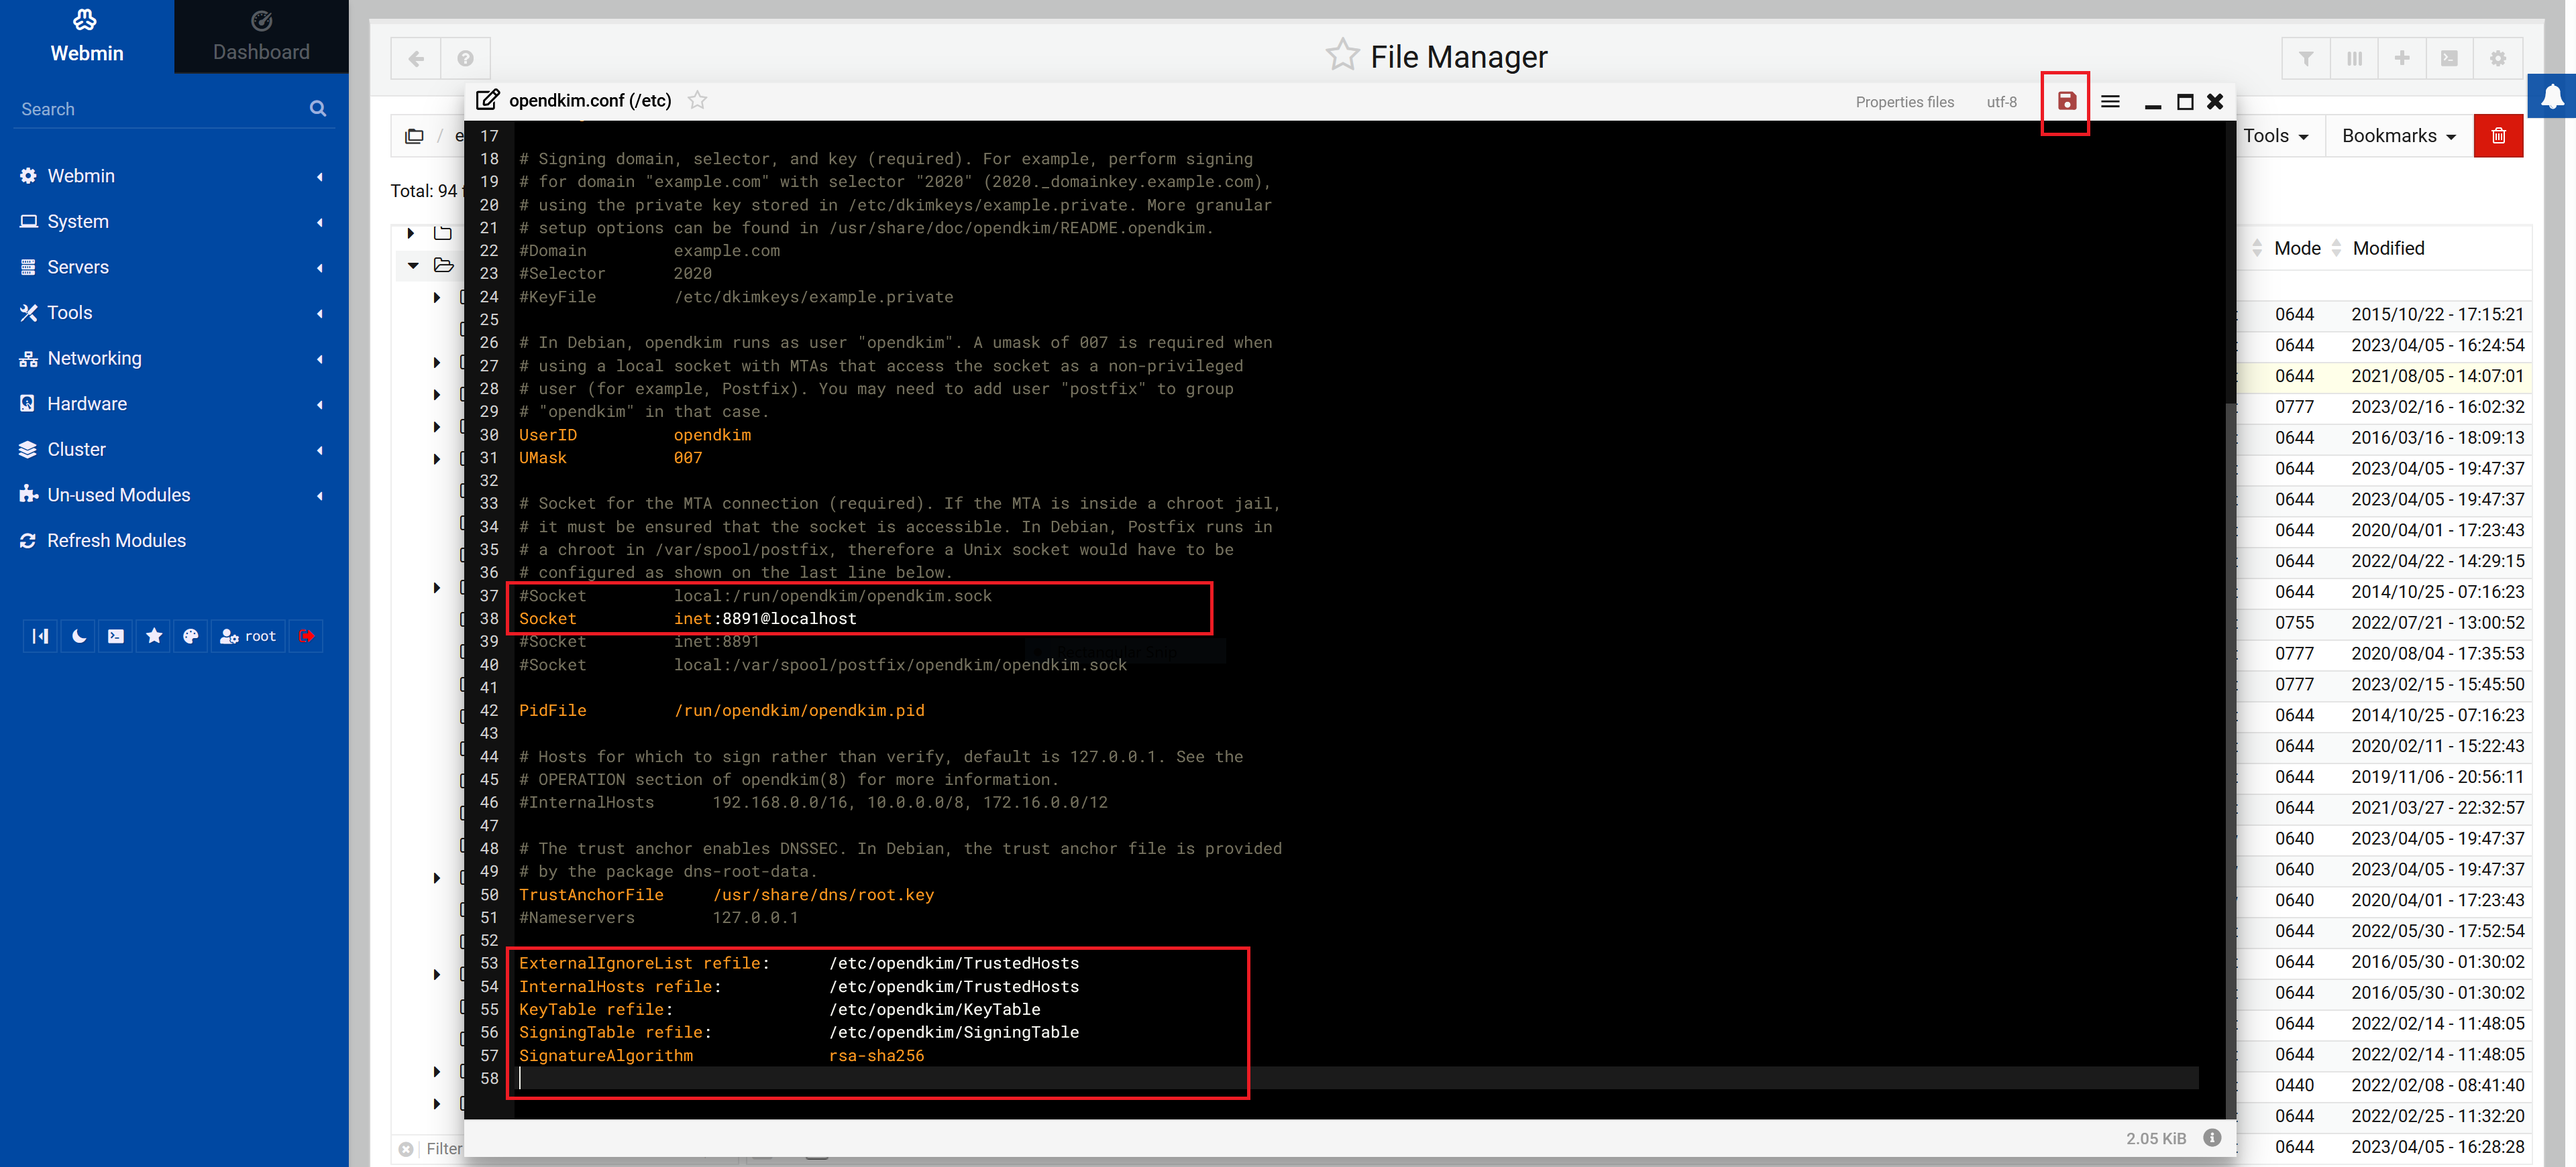
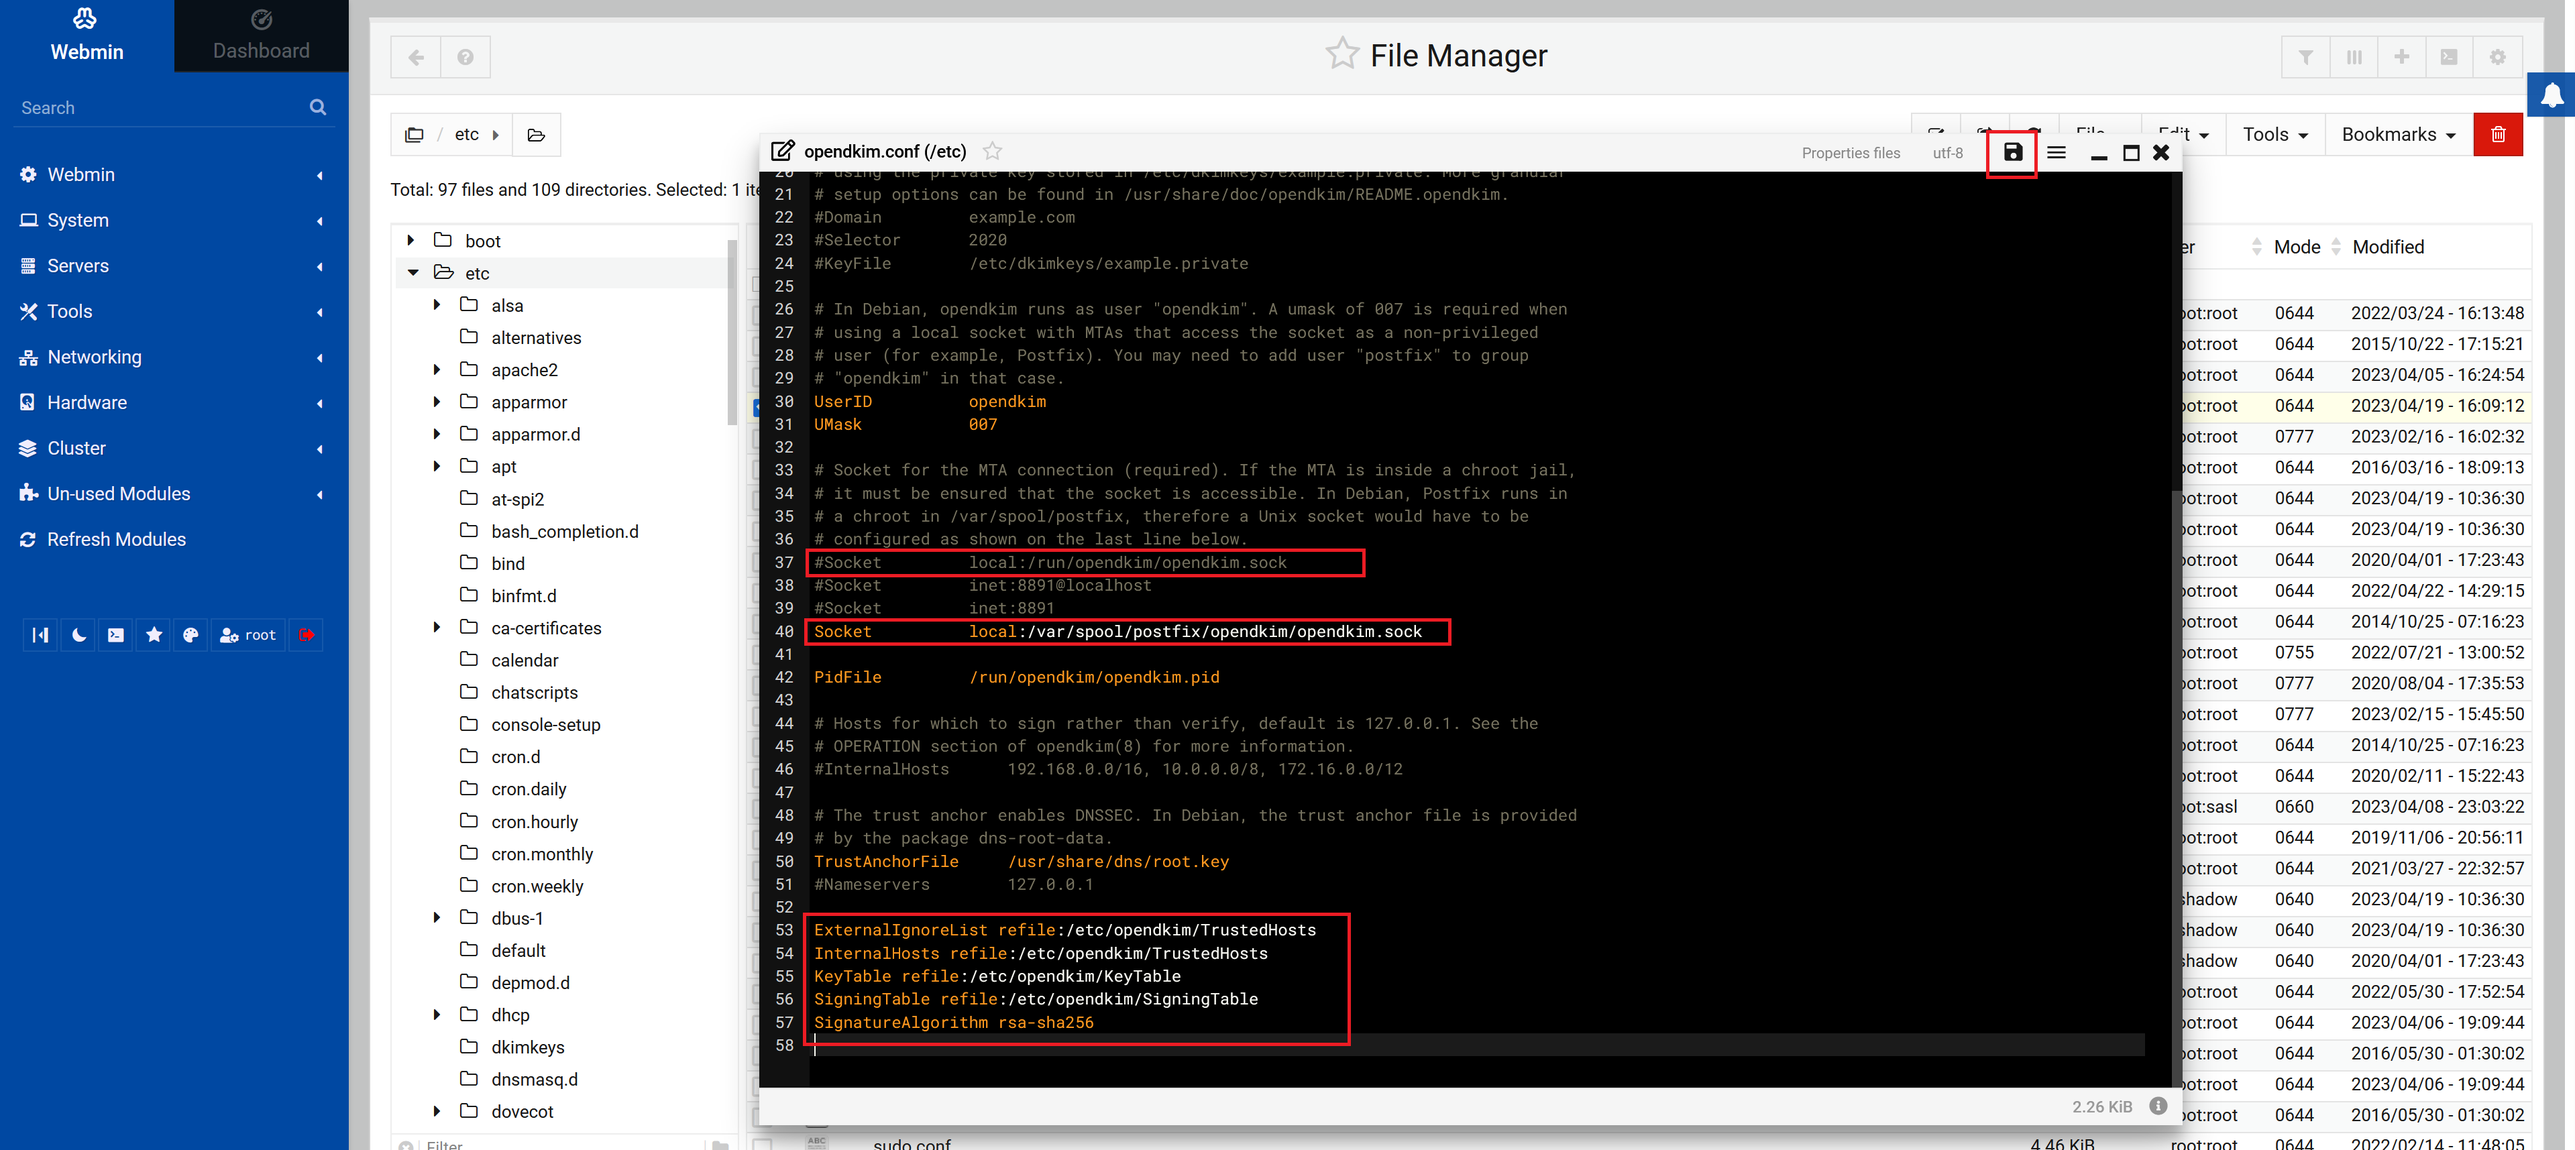
Mail Server bug fixes

diff --git a/Postfix-Dovecot-Setup.md b/Postfix-Dovecot-Setup.md
@@ -70,21 +70,27 @@ Socket			local:/run/opendkim/opendkim.sock
 ```
 2. Uncomment
 ```
-Socket			inet:8891@localhost
+Socket			local:/var/spool/postfix/opendkim/opendkim.sock
 ```
 3. Append the following lines:
 ```
-ExternalIgnoreList refile:      /etc/opendkim/TrustedHosts
-InternalHosts refile:           /etc/opendkim/TrustedHosts
-KeyTable refile:                /etc/opendkim/KeyTable
-SigningTable refile:            /etc/opendkim/SigningTable
-SignatureAlgorithm              rsa-sha256
+ExternalIgnoreList refile:/etc/opendkim/TrustedHosts
+InternalHosts refile:/etc/opendkim/TrustedHosts
+KeyTable refile:/etc/opendkim/KeyTable
+SigningTable refile:/etc/opendkim/SigningTable
+SignatureAlgorithm rsa-sha256
 ```
 Save the changes to `/etc/opendkim.conf`  
 
 ![Alt Text](images/dkim/1.png)
 
-Create the `/etc/opendkim/TrustedHosts` file and add your domain to it, click on the save icon.
+Create the `/etc/opendkim/TrustedHosts` file and add:
+```
+127.0.0.1
+localhost
+example.com
+```
+Replace `example` with your domain name and click the save icon.
 
 ![Alt Text](images/dkim/2.png)
 
@@ -168,6 +174,7 @@ smtpd_tls_security_level = may
 
 Add the following lines to the configuration file:
 ```
+# Postfix virtual mailbox configuration
 virtual_mailbox_domains = example.com
 virtual_mailbox_base = /var/mail/vhosts
 virtual_mailbox_maps = hash:/etc/postfix/virtual_mailbox
@@ -176,14 +183,22 @@ virtual_uid_maps = static:5000
 virtual_gid_maps = static:5000
 virtual_alias_maps = hash:/etc/postfix/virtual
 
+# Postfix & Dovecot configuration
 smtpd_sasl_type = dovecot
 smtpd_sasl_path = private/auth
 smtpd_sasl_auth_enable = yes
 broken_sasl_auth_clients = yes
 smtpd_sasl_security_options = noanonymous noplaintext
 smtpd_sasl_tls_security_options = noanonymous
-smtpd_relay_restrictions = permit_mynetworks permit_sasl_authenticated defer_unauth_destination
+smtpd_relay_restrictions = permit_mynetworks permit_sasl_authenticated defer_unauth_destination permit_inet_interfaces
 smtpd_tls_auth_only = yes
+smtpd_recipient_restrictions = permit_mynetworks permit_sasl_authenticated permit_inet_interfaces
+
+# Postfix configuration with opendkim
+smtpd_milters = unix:/var/spool/postfix/opendkim/opendkim.sock
+non_smtpd_milters = $smtpd_milters
+milter_default_action = accept
+milter_protocol = 6
 ```
 **Click the save icon.**
 
@@ -286,7 +301,14 @@ systemctl restart dovecot
 ```
 
 ### Test your Mail Server
+In the terminal check that all the services are running & active:
+```
+systemctl status postfix
+systemctl status dovecot
+systemctl status opendkim
+```
 
+Online testing tools:
 1. [TLS Connection Test - checktls.com](https://checktls.com/TestReceiver)
 2. [SMTP Server Test - wormly.com](https://wormly.com/test-smtp-server)
 3. [SMTP Diagnostics - mxtoolbox.com](https://mxtoolbox.com/diagnostic.aspx)
@@ -306,3 +328,14 @@ Hello from my new email server!
 
 ```
 Press `CTRL+D` to send the email.
+
+### Debugging
+If you have issues with setting up opendkim, it may help to debug it as the service runs.
+1. On terminal #1 do this, it will print logs from OpenDKIM as it runs:
+```
+journalctl -f -u opendkim.service
+```
+2. On a second terminal do this to restart OpenDKIM:
+```
+systemctl restart opendkim.service
+```
